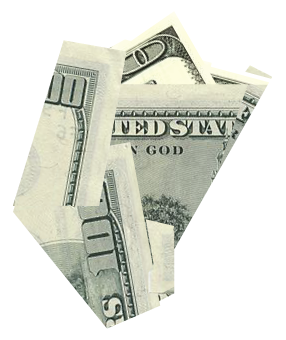
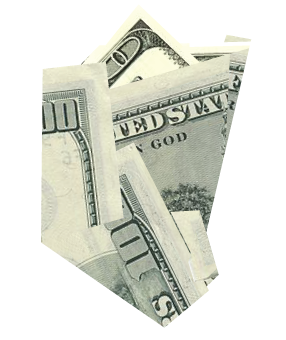
finished dollar page

diff --git a/dollar.html b/dollar.html
@@ -7,32 +7,43 @@
   <title>Dollar</title>
   <meta name="viewport" content="width=device-width, initial-scale=1.0">
   <meta name="author" content="didyoueven">
+  <link href="assets/css/main.css" rel="stylesheet">
   <link href="assets/css/dollar.css" rel="stylesheet">
 </head>
 
 <body>
 
 <div>
-<div class="box"><div class="scroll"></div></div>
 
-<img id="dollar0" class="dollar-image" style="top: 100px" src="assets/img/dollarfront.jpg"></img>
-<img id="dollar1" class="dollar-image" src="assets/img/dollar2.png"></img>
-<img id="dollar2" class="dollar-image" src="assets/img/dollar3.png"></img>
-<img id="dollar3" class="dollar-image" src="assets/img/dollar4.png"></img>
-<img id="dollar4" class="dollar-image" src="assets/img/dollar5.png"></img>
-<img id="dollar5" class="dollar-image" src="assets/img/dollar6.png"></img>
-<img id="dollar6" class="dollar-image" src="assets/img/dollar7.png"></img>
-<img id="dollar7" class="dollar-image" src="assets/img/dollar8.png"></img>
-<img id="dollar8" class="dollar-image" src="assets/img/dollar9.png"></img>
-<img id="dollar9" class="dollar-image" src="assets/img/dollar10.png"><imgv>
-<img id="dollar10" class="dollar-image" src="assets/img/dollarfront.jpg"><imgv>
+	<div class="text">
+		<h1> anatomy of a record. </h1>
+	</div>
+	
+	<div>
+		<div class="box"><div class="scroll"></div></div>
+		<img id="dollar0" class="dollar-image" src="assets/img/dollarfront.jpg">
+		<img id="dollar1" class="dollar-image" src="assets/img/dollar2.png">
+		<img id="dollar2" class="dollar-image" src="assets/img/dollar3.png">
+		<img id="dollar3" class="dollar-image" src="assets/img/dollar4.png">
+		<img id="dollar4" class="dollar-image" src="assets/img/dollar5.png">
+		<img id="dollar5" class="dollar-image" src="assets/img/dollar6.png">
+		<img id="dollar6" class="dollar-image" src="assets/img/dollar7.png">
+		<img id="dollar7" class="dollar-image" src="assets/img/dollar8.png">
+		<img id="dollar8" class="dollar-image" src="assets/img/dollar9.png">
+		<img id="dollar9" class="dollar-image" src="assets/img/dollar10.png">
+		<img id="dollar10" class="dollar-image" src="assets/img/dollarfront.jpg">
+	</div>
 
-</div>
+	<div class="text-wrapper">
+		<div class="text" id="text-main"></div>
+		<div class="text" id="text-desc"></div>
+		<div class="text" id="text-test"></div>
+	</div>
 
-<div style="position:absolute; left: 700px; top:200px">
-<div class="text" id="text-main"></div>
-<div class="text" id="text-desc"></div>
-<div class="text" id="text-test"></div>
+	<div class="text margin">
+		source: <a href="http://www.rollingstone.com/music/news/wal-mart-wants-10-cds-20041012"> Rolling Stone Magazine </a>
+	</div>
+
 </div>
 
 <script>
@@ -84,9 +95,6 @@ function set_text(){
 		if (position > .16) {
 			$( "#dollar0" ).hide().css({ top: height });
 		}
-		// if (position > .05) {
-		// 	$( "#dollar2" ).hide().css({ top: height });
-		// }
 	} else {
 		if (position < .05) {
 			$( "#dollar1" ).hide().css({ top: -369 });
@@ -121,103 +129,70 @@ function set_text(){
 	}
 
 	if (position > .94) {
-		place = 100 - Math.pow(((1 - position) * 17),3) * 469;
-		$( "#dollar10" ).show().css({ top: place, opacity: Math.max((.99-position)*20,.1) });
+		place = 200 - Math.pow(((1 - position) * 17),3) * 569;
+		$( "#dollar10" ).show().css({ top: place, opacity: Math.max((.99-position)*20,.2) });
 	} else if (position <= .9 && position > .84) {
-		place = 100 - Math.pow(((.9 - position) * 17),3) * 469;
+		place = 200 - Math.pow(((.9 - position) * 17),3) * 569;
 		$( "#dollar9" ).show().css({ top: place });
 	} else if (position <= .8 && position > .74) {
-		place = 100 - Math.pow(((.8 - position) * 17),3) * 469;
+		place = 200 - Math.pow(((.8 - position) * 17),3) * 569;
 		$( "#dollar8" ).show().css({ top: place });
 	} else if (position <= .7 && position > .64) {
-		place = 100 - Math.pow(((.7 - position) * 17),3) * 469;
+		place = 200 - Math.pow(((.7 - position) * 17),3) * 569;
 		$( "#dollar7" ).show().css({ top: place });
 	} else if (position <= .6 && position > .54) {
-		place = 100 - Math.pow(((.6 - position) * 17),3) * 469;
+		place = 200 - Math.pow(((.6 - position) * 17),3) * 569;
 		$( "#dollar6" ).show().css({ top: place });
 	} else if (position <= .5 && position > .44) {
-		place = 100 - Math.pow(((.5 - position) * 17),3) * 469;
+		place = 200 - Math.pow(((.5 - position) * 17),3) * 569;
 		$( "#dollar5" ).show().css({ top: place });
 	} else if (position <= .4 && position > .34) {
-		place = 100 - Math.pow(((.4 - position) * 17),3) * 469;
+		place = 200 - Math.pow(((.4 - position) * 17),3) * 569;
 		$( "#dollar4" ).show().css({ top: place });
 	} else if (position <= .3 && position > .24) {
-		place = 100 - Math.pow(((.3 - position) * 17),3) * 469;
+		place = 200 - Math.pow(((.3 - position) * 17),3) * 569;
 		$( "#dollar3" ).show().css({ top: place });
 	} else if (position <= .2 && position > .14) {
-		place = 100 - Math.pow(((.2 - position) * 17),3) * 469;
+		place = 200 - Math.pow(((.2 - position) * 17),3) * 569;
 		$( "#dollar2" ).show().css({ top: place });
 	} else if (position <= .1 && position > .04) {
-		place = 100 - Math.pow(((.1 - position) * 17),3) * 469;
+		place = 200 - Math.pow(((.1 - position) * 17),3) * 569;
 		$( "#dollar1" ).show().css({ top: place });
 	}
 
-	// if (position >= .9 && position < .96) {
-	// 	place = 100 - Math.pow(((.9 - position) * 17),3) * (height - 100);
-	// 	$( "#dollar9" ).show().css({ top: place });
-	// } else if (position >= .8 && position < .86) {
-	// 	place = 100 - Math.pow(((.8 - position) * 17),3) * (height - 100);
-	// 	$( "#dollar8" ).show().css({ top: place });
-	// } else if (position >= .7 && position < .76) {
-	// 	place = 100 - Math.pow(((.7 - position) * 17),3) * (height - 100);
-	// 	$( "#dollar7" ).show().css({ top: place });
-	// } else if (position >= .6 && position < .66) {
-	// 	place = 100 - Math.pow(((.6 - position) * 17),3) * (height - 100);
-	// 	$( "#dollar6" ).show().css({ top: place });
-	// } else if (position >= .5 && position < .56) {
-	// 	place = 100 - Math.pow(((.5 - position) * 17),3) * (height - 100);
-	// 	$( "#dollar5" ).show().css({ top: place });
-	// } else if (position >= .4 && position < .46) {
-	// 	place = 100 - Math.pow(((.4 - position) * 17),3) * (height - 100);
-	// 	$( "#dollar4" ).show().css({ top: place });
-	// } else if (position >= .3 && position < .36) {
-	// 	place = 100 - Math.pow(((.3 - position) * 17),3) * (height - 100);
-	// 	$( "#dollar3" ).show().css({ top: place });
-	// } else if (position >= .2 && position < .26) {
-	// 	place = 100 - Math.pow(((.2 - position) * 17),3) * (height - 100);
-	// 	$( "#dollar2" ).show().css({ top: place });
-	// } else if (position >= .1 && position < .16) {
-	// 	place = 100 - Math.pow(((.1 - position) * 17),3) * (height - 100);
-	// 	$( "#dollar1" ).show().css({ top: place });
-	// } else if (position < .05){
-	// 	place = 100 + Math.pow(((position) * 20),2) * (height - 100);
-	// 	$( "#dollar0" ).show().css({ top: place });
-	// }
-
 	if (position >= .9 && position < .96) {
-		place = 100 - Math.pow(((.9 - position) * 17),3) * (height - 100);
+		place = 200 - Math.pow(((.9 - position) * 17),3) * (height - 100);
 		$( "#dollar8" ).show().css({ top: place });
-		// $( "#dollar9" ).css({ opacity: (1 - position) * 10 });
 	} else if (position >= .8 && position < .86) {
-		place = 100 - Math.pow(((.8 - position) * 17),3) * (height - 100);
+		place = 200 - Math.pow(((.8 - position) * 17),3) * (height - 100);
 		$( "#dollar7" ).show().css({ top: place });
 		$( "#dollar8" ).css({ opacity: (.9 - position) * 10 });
 	} else if (position >= .7 && position < .76) {
-		place = 100 - Math.pow(((.7 - position) * 17),3) * (height - 100);
+		place = 200 - Math.pow(((.7 - position) * 17),3) * (height - 100);
 		$( "#dollar6" ).show().css({ top: place });
 		$( "#dollar7" ).css({ opacity: (.8 - position) * 10 });
 	} else if (position >= .6 && position < .66) {
-		place = 100 - Math.pow(((.6 - position) * 17),3) * (height - 100);
+		place = 200 - Math.pow(((.6 - position) * 17),3) * (height - 100);
 		$( "#dollar5" ).show().css({ top: place });
 		$( "#dollar6" ).css({ opacity: (.7 - position) * 10 });
 	} else if (position >= .5 && position < .56) {
-		place = 100 - Math.pow(((.5 - position) * 17),3) * (height - 100);
+		place = 200 - Math.pow(((.5 - position) * 17),3) * (height - 100);
 		$( "#dollar4" ).show().css({ top: place });
 		$( "#dollar5" ).css({ opacity: (.6 - position) * 10 });
 	} else if (position >= .4 && position < .46) {
-		place = 100 - Math.pow(((.4 - position) * 17),3) * (height - 100);
+		place = 200 - Math.pow(((.4 - position) * 17),3) * (height - 100);
 		$( "#dollar3" ).show().css({ top: place });
 		$( "#dollar4" ).css({ opacity: (.5 - position) * 10 });
 	} else if (position >= .3 && position < .36) {
-		place = 100 - Math.pow(((.3 - position) * 17),3) * (height - 100);
+		place = 200 - Math.pow(((.3 - position) * 17),3) * (height - 100);
 		$( "#dollar2" ).show().css({ top: place });
 		$( "#dollar3" ).css({ opacity: (.4 - position) * 10 });
 	} else if (position >= .2 && position < .26) {
-		place = 100 - Math.pow(((.2 - position) * 17),3) * (height - 100);
+		place = 200 - Math.pow(((.2 - position) * 17),3) * (height - 100);
 		$( "#dollar1" ).show().css({ top: place });
 		$( "#dollar2" ).css({ opacity: (.3 - position) * 10 });
 	} else if (position >= .1 && position < .16) {
-		place = 100 - Math.pow(((.1 - position) * 17),3) * (height - 100);
+		place = 200 - Math.pow(((.1 - position) * 17),3) * (height - 100);
 		$( "#dollar0" ).show().css({ top: place });
 		$( "#dollar1" ).css({ opacity: (.2 - position) * 10 });
 	} else if (position < .05) {

diff --git a/assets/css/dollar.css b/assets/css/dollar.css
@@ -23,8 +23,27 @@
 .text {
 	font-family: "HelveticaNeue-Light", "Helvetica Neue Light", "Helvetica Neue", 
   Helvetica, Arial, "Lucida Grande", sans-serif;
-  margin-right: 100px;
-  margin-left: 10px;
+  margin-left: 25px;
+}
+
+.text h1 {
+	font-family: "HelveticaNeue-UltraLight", "HelveticaNeue-Light", "Helvetica Neue Light", 
+	"Helvetica Neue", Helvetica, Arial, "Lucida Grande", sans-serif;
+	font-style: normal;
+	font-weight: normal;
+	font-size: 35px;
+	left: 0px;
+	width: 35%;
+	text-align: center;
+	margin-top: 100px;
+	position: absolute;
+}
+
+.text-wrapper {
+	position: absolute;
+	margin-left: 20px;
+	top: 300px;
+	width: 35%;
 }
 
 #text-main {
@@ -39,10 +58,62 @@
 .dollar-image {
 	display: hidden;
 	z-index: 2;
-/*	background-repeat:no-repeat;
-	background-position:center; */
-/*	height: 368px;
-	width: 640px;*/
 	position: absolute;
 	top: -369px;
+	left: 40%;
 }
+
+.margin {
+  font-size: 12px;
+  position: absolute;
+  bottom: 30px;
+  margin-left: 45px;
+  width: 35%;
+  z-index: 4;
+}
+
+#dollar0 {
+	top: 200px;
+}
+
+#dollar1 {
+	margin: -70px 0px 0px 0px;
+}
+
+#dollar2 {
+	margin: -35px 0px 0px 0px;
+}
+
+#dollar3 {
+	margin: -35px 0px 0px 0px;
+}
+
+#dollar4 {
+	margin: -50px 0px 0px 0px;
+}
+
+#dollar5 {
+	margin: -35px 0px 0px 20px;
+}
+
+#dollar6 {
+	margin: -35px 0px 0px -12px;
+}
+
+#dollar7 {
+	margin: -70px 0px 0px -14px;
+}
+
+#dollar8 {
+	margin: 30px 0px 0px 18px;
+}
+
+#dollar9 {
+	margin: 82px 0px 0px 14px;
+}
+
+#dollar10 {
+	margin: 0px 0px 0px 0px;
+}
+
+
